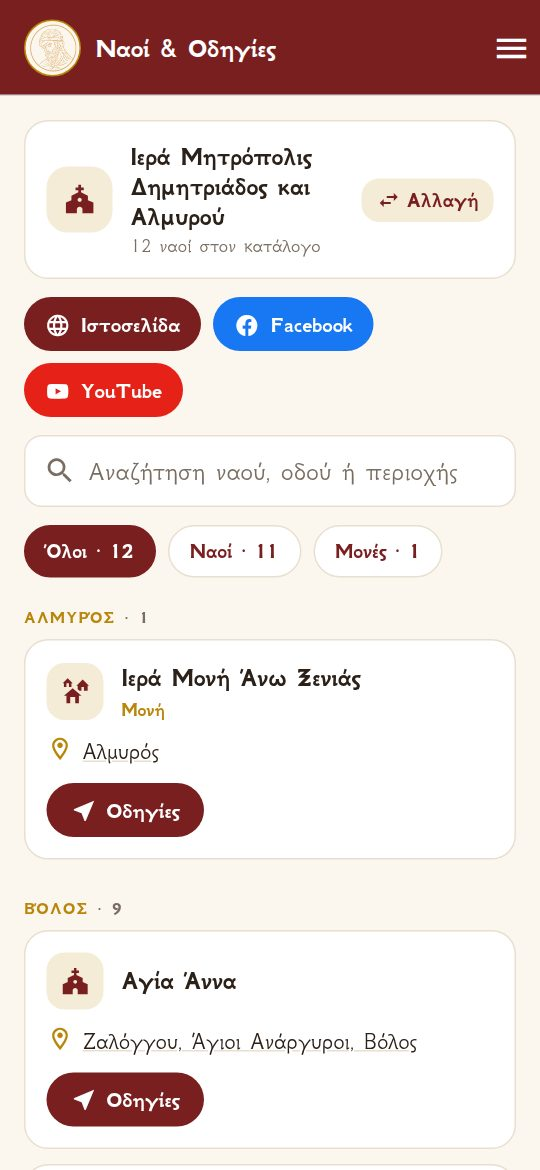
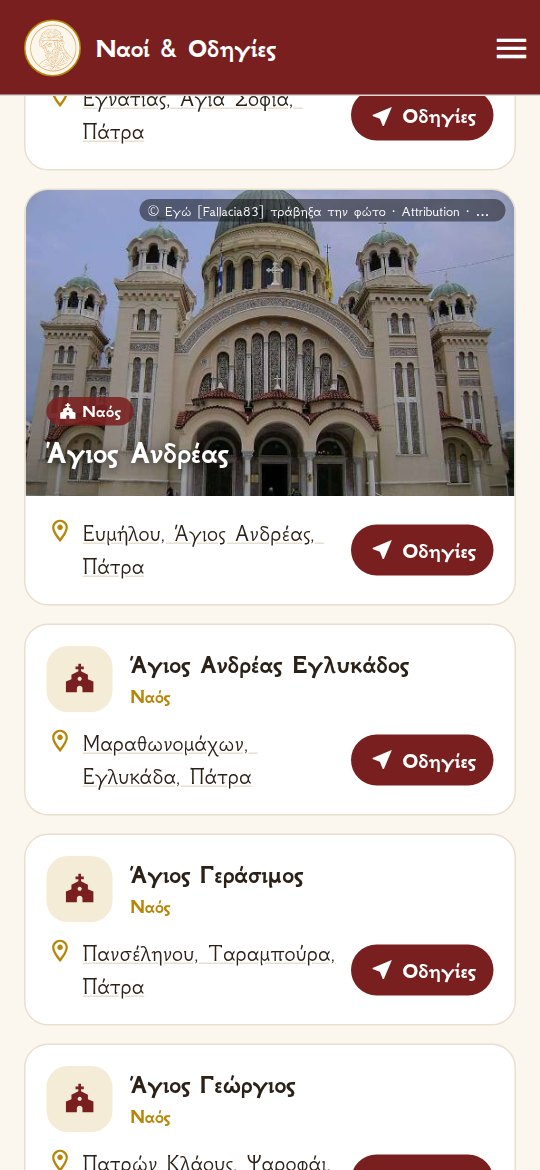
Σελίδα: χάρτης Μητροπόλεων, νέες οθόνες, αριθμοί, πώς ξεκινάς, ερωτήσεις, μενού κινητού, στρογγυλό εικονίδιο

diff --git a/index.html b/index.html
@@ -5,10 +5,12 @@
   <meta name="viewport" content="width=device-width, initial-scale=1" />
   <title>Οκτώηχος · Octoechos</title>
   <meta name="description" content="Οκτώηχος — Εορτολόγιο με βίους αγίων και νηστείες, Τυπική Διάταξη, Ισοκράτης, νέα και ναοί όλων των Μητροπόλεων της Ελλάδος." />
-  <link rel="icon" href="favicon.png" />
+  <link rel="icon" type="image/png" sizes="64x64" href="favicon.png" />
+  <link rel="apple-touch-icon" href="apple-touch-icon.png" />
+  <meta name="theme-color" content="#7a1f1f" />
   <meta property="og:title" content="Οκτώηχος · Octoechos" />
   <meta property="og:description" content="Εορτολόγιο, Τυπική Διάταξη, Ισοκράτης, νέα και ναοί των Μητροπόλεων σε μία εφαρμογή." />
-  <meta property="og:image" content="logo.png" />
+  <meta property="og:image" content="icon-512.png" />
   <link rel="preconnect" href="https://fonts.googleapis.com" />
   <link rel="preconnect" href="https://fonts.gstatic.com" crossorigin />
   <link href="https://fonts.googleapis.com/css2?family=GFS+Neohellenic:wght@400;700&display=swap" rel="stylesheet" />
@@ -51,7 +53,7 @@
 
     /* Hero */
     .hero { text-align: center; padding: 48px 0 28px; }
-    .hero img.logo { width: min(560px, 92%); height: auto; }
+    .hero img.saint { width: min(250px, 60%); height: auto; filter: drop-shadow(0 6px 14px rgba(184,134,11,.18)); }
     .hero h1 { font-size: clamp(40px, 7vw, 64px); color: var(--primary); margin: 8px 0 0; letter-spacing: .5px; }
     .hero p.tag { font-size: clamp(20px, 3vw, 26px); color: var(--accent); margin: 4px 0 18px; font-weight: 700; }
     .hero p.lead { max-width: 720px; margin: 0 auto 26px; color: var(--muted); }
@@ -93,6 +95,58 @@
     footer .wrap { display: flex; flex-wrap: wrap; gap: 14px; justify-content: space-between; align-items: center; }
     footer a { color: #fff; }
 
+    /* Αριθμοί */
+    .stats { display: grid; grid-template-columns: repeat(4, 1fr); gap: 12px; margin: 6px auto 0; max-width: 900px; }
+    .stat { background: var(--surface); border: 1px solid var(--border); border-radius: 18px; padding: 16px 10px; text-align: center; }
+    .stat b { display: block; font-size: 32px; color: var(--primary); line-height: 1.1; }
+    .stat span { font-size: 15px; color: var(--muted); }
+
+    /* Μια ματιά */
+    .gallery { display: flex; gap: 18px; overflow-x: auto; scroll-snap-type: x mandatory; padding: 6px 4px 18px; -webkit-overflow-scrolling: touch; }
+    .gallery figure { flex: 0 0 210px; margin: 0; scroll-snap-align: center; text-align: center; }
+    .gallery .phone { width: 210px; border-width: 7px; border-radius: 26px; }
+    .gallery figcaption { margin-top: 8px; font-size: 16px; color: var(--muted); }
+
+    /* Βήματα */
+    .steps { display: grid; grid-template-columns: repeat(3, 1fr); gap: 16px; counter-reset: st; }
+    .step { background: var(--surface); border: 1px solid var(--border); border-radius: 18px; padding: 22px 20px 20px; position: relative; }
+    .step::before { counter-increment: st; content: counter(st); position: absolute; top: -14px; left: 20px; width: 32px; height: 32px; border-radius: 50%; background: var(--primary); color: #fff; display: grid; place-items: center; font-weight: 700; font-size: 18px; }
+    .step h4 { margin: 6px 0 6px; color: var(--primary); font-size: 22px; }
+    .step p { margin: 0; color: var(--muted); font-size: 17px; }
+
+    /* Ερωτήσεις */
+    .faq { max-width: 820px; margin: 0 auto; }
+    .faq details { background: var(--surface); border: 1px solid var(--border); border-radius: 16px; padding: 14px 18px; margin-bottom: 10px; }
+    .faq summary { cursor: pointer; font-weight: 700; color: var(--primary); font-size: 19px; list-style: none; display: flex; justify-content: space-between; gap: 12px; }
+    .faq summary::-webkit-details-marker { display: none; }
+    .faq summary::after { content: '+'; color: var(--accent); font-size: 24px; line-height: 1; }
+    .faq details[open] summary::after { content: '–'; }
+    .faq details p { margin: 10px 0 2px; color: var(--muted); font-size: 17px; }
+
+    /* Μενού κινητού */
+    .menu-btn { display: none; background: none; border: 0; color: #fff; font-size: 28px; line-height: 1; padding: 4px 6px; margin-left: 10px; cursor: pointer; }
+    .mobile-nav { display: none; background: var(--primary); border-top: 1px solid rgba(255,255,255,.2); }
+    .mobile-nav a { display: block; color: #fff; text-decoration: none; padding: 12px 20px; border-bottom: 1px solid rgba(255,255,255,.12); font-size: 18px; }
+    body.menu-open .mobile-nav { display: block; }
+
+    /* Κινητά */
+    @media (max-width: 720px) {
+      body { font-size: 18px; }
+      .menu-btn { display: inline-block; }
+      header .wrap { height: 58px; }
+      .hero { padding: 30px 0 18px; }
+      .hero img.saint { width: min(210px, 56%); }
+      .stats { grid-template-columns: repeat(2, 1fr); }
+      .stat b { font-size: 28px; }
+      .feature { padding: 20px 18px; gap: 22px; border-radius: 18px; }
+      .feature h3 { font-size: 24px; }
+      .phone { width: 240px; }
+      h2 { font-size: 29px; }
+      .steps { grid-template-columns: 1fr; gap: 22px; }
+      .download { padding: 24px 16px; }
+      .btn { padding: 13px 20px; font-size: 18px; }
+    }
+
     [data-lang="en"] .el, [data-lang="el"] .en { display: none !important; }
   </style>
 </head>
@@ -103,18 +157,28 @@
       <div class="name"><span class="el">Οκτώηχος</span><span class="en">Octoechos</span></div>
       <nav>
         <a class="navlink" href="#features"><span class="el">Λειτουργίες</span><span class="en">Features</span></a>
+        <a class="navlink" href="#faq"><span class="el">Ερωτήσεις</span><span class="en">FAQ</span></a>
         <a class="navlink" href="#download"><span class="el">Λήψη</span><span class="en">Download</span></a>
         <a class="navlink" href="privacy.html"><span class="el">Όροι &amp; Απόρρητο</span><span class="en">Terms &amp; Privacy</span></a>
         <span class="lang" role="group" aria-label="Language">
           <button type="button" data-set="el">ΕΛ</button><button type="button" data-set="en">EN</button>
         </span>
+        <button class="menu-btn" type="button" aria-label="Μενού" aria-expanded="false">☰</button>
       </nav>
+    </div>
+    <div class="mobile-nav">
+      <a href="#features"><span class="el">Λειτουργίες</span><span class="en">Features</span></a>
+      <a href="#gallery"><span class="el">Μια ματιά</span><span class="en">A quick look</span></a>
+      <a href="#start"><span class="el">Πώς ξεκινάς</span><span class="en">Getting started</span></a>
+      <a href="#faq"><span class="el">Συχνές ερωτήσεις</span><span class="en">FAQ</span></a>
+      <a href="#download"><span class="el">Λήψη</span><span class="en">Download</span></a>
+      <a href="privacy.html"><span class="el">Όροι &amp; Απόρρητο</span><span class="en">Terms &amp; Privacy</span></a>
     </div>
   </header>
 
   <main class="wrap">
     <div class="hero">
-      <img class="logo" src="logo.png" alt="Άγιος Ιωάννης ο Δαμασκηνός" />
+      <img class="saint" src="saint.png" alt="Άγιος Ιωάννης ο Δαμασκηνός" width="250" height="250" />
       <h1>Οκτώηχος</h1>
       <p class="tag"><span class="el">Ο σύντροφος του ψάλτη</span><span class="en">The chanter’s companion</span></p>
       <p class="lead">
@@ -125,6 +189,13 @@
         <a class="btn" href="#download">⬇ <span class="el">Λήψη για Android</span><span class="en">Download for Android</span></a>
         <a class="btn outline" href="#features"><span class="el">Δες τι περιέχει</span><span class="en">See what’s inside</span></a>
       </div>
+    </div>
+
+    <div class="stats">
+      <div class="stat"><b>19.000+</b><span class="el">ναοί, μονές &amp; παρεκκλήσια</span><span class="en">churches, monasteries &amp; chapels</span></div>
+      <div class="stat"><b>95</b><span class="el">Μητροπόλεις &amp; Αρχιεπισκοπές, και το Άγιον Όρος</span><span class="en">Metropolises &amp; Archdioceses, plus Mount Athos</span></div>
+      <div class="stat"><b>1.100+</b><span class="el">μνήμες αγίων με βίους</span><span class="en">saints’ commemorations</span></div>
+      <div class="stat"><b>8</b><span class="el">ήχοι στον ισοκράτη</span><span class="en">modes in the ison</span></div>
     </div>
 
     <div class="ornament">✝</div>
@@ -217,6 +288,28 @@
 
       <div class="feature">
         <div>
+          <div class="kicker"><span class="el">Χάρτης Μητροπόλεων</span><span class="en">Map of the Metropolises</span></div>
+          <h3><span class="el">Όλη η Ελλάδα, Μητρόπολη προς Μητρόπολη</span><span class="en">All of Greece, Metropolis by Metropolis</span></h3>
+          <ul class="el">
+            <li>Κάθε Μητρόπολη με το δικό της, ήπιο εκκλησιαστικό χρώμα — οι γειτονικές δεν έχουν ποτέ το ίδιο.</li>
+            <li>Πάτησε πάνω στον χάρτη όσες Μητροπόλεις θέλεις· με δεύτερο πάτημα αφαιρούνται.</li>
+            <li>Αναζήτηση πάνω από τον χάρτη: γράψε «Πατρ» ή «Κρήτη» και ο χάρτης πηγαίνει εκεί.</li>
+            <li>Ζουμ με τα κουμπιά − / + ή με τη μπάρα· με το ζουμ εμφανίζονται τα ονόματα (Ι. Μ. Πατρών, Ι. Μ. Αιτωλοακαρνανίας…).</li>
+            <li>Ο ίδιος χάρτης στα Νέα και στους Ναούς, με το κουμπί «Επιλεγμένες» για να συνεχίσεις.</li>
+          </ul>
+          <ul class="en">
+            <li>Each Metropolis in its own soft, ecclesiastical colour — neighbours never share one.</li>
+            <li>Tap as many Metropolises as you like on the map; tap again to remove.</li>
+            <li>Search above the map: type “Patr” or “Crete” and the map goes there.</li>
+            <li>Zoom with the − / + buttons or the slider; names appear as you zoom in.</li>
+            <li>The same map in the News and the Churches, with a “Selected” button to carry on.</li>
+          </ul>
+        </div>
+        <div class="phone"><img src="screen-map.jpg" alt="Χάρτης Μητροπόλεων" loading="lazy" /></div>
+      </div>
+
+      <div class="feature rev">
+        <div>
           <div class="kicker"><span class="el">Ναοί & Οδηγίες</span><span class="en">Churches & Directions</span></div>
           <h3><span class="el">Βρες τον ναό και πήγαινε με GPS</span><span class="en">Find the church and get there by GPS</span></h3>
           <ul class="el">
@@ -249,7 +342,46 @@
         <div class="card"><h4><span class="el">Γρήγορη & ομαλή</span><span class="en">Fast & smooth</span></h4><p><span class="el">Έως 120 Hz σε κινητά που το υποστηρίζουν· οι χάρτες σχεδιάζονται απευθείας στην κάρτα γραφικών.</span><span class="en">Up to 120 Hz on phones that support it; the maps are drawn straight on the GPU.</span></p></div>
         <div class="card"><h4><span class="el">Αυτόματες ενημερώσεις</span><span class="en">Automatic updates</span></h4><p><span class="el">Νέο περιεχόμενο χωρίς να ξανακατεβάσεις την εφαρμογή.</span><span class="en">New content without reinstalling the app.</span></p></div>
         <div class="card"><h4><span class="el">Όπως τη θέλεις</span><span class="en">Your way</span></h4><p><span class="el">Μέγεθος γραμμάτων και διακόπτες για να κρύψεις όποια ενότητα δεν χρειάζεσαι.</span><span class="en">Text size, and switches to hide any section you don’t need.</span></p></div>
+        <div class="card"><h4><span class="el">Και χωρίς internet</span><span class="en">Works offline too</span></h4><p><span class="el">Ό,τι έχεις ανοίξει μία φορά (ναοί, νέα, χάρτης) κρατιέται στο κινητό και ανοίγει αμέσως.</span><span class="en">Whatever you have opened once (churches, news, map) stays on your phone and opens instantly.</span></p></div>
+        <div class="card"><h4><span class="el">Αναφορά λάθους</span><span class="en">Report a problem</span></h4><p><span class="el">Λείπει ένας ναός ή έχει λάθος στοιχεία; Στείλε αναφορά από την ίδια την εφαρμογή.</span><span class="en">A church missing or wrong? Send a report from within the app.</span></p></div>
         <div class="card"><h4><span class="el">Σεβασμός στο απόρρητο</span><span class="en">Privacy first</span></h4><p><span class="el">Χωρίς διαφημίσεις, χωρίς παρακολούθηση. Διαγραφή λογαριασμού από την ίδια την εφαρμογή.</span><span class="en">No ads, no tracking. Delete your account from within the app.</span></p></div>
+      </div>
+    </section>
+
+    <section id="gallery">
+      <h2><span class="el">Μια ματιά στην εφαρμογή</span><span class="en">A quick look at the app</span></h2>
+      <p class="sub"><span class="el">Σύρε δεξιά–αριστερά για να δεις τις οθόνες.</span><span class="en">Swipe left and right to see the screens.</span></p>
+      <div class="gallery">
+        <figure><div class="phone"><img src="screen-home.jpg" alt="" loading="lazy" /></div><figcaption><span class="el">Αρχική</span><span class="en">Home</span></figcaption></figure>
+        <figure><div class="phone"><img src="screen-saints.jpg" alt="" loading="lazy" /></div><figcaption><span class="el">Εορτολόγιο</span><span class="en">Calendar</span></figcaption></figure>
+        <figure><div class="phone"><img src="screen-typ.jpg" alt="" loading="lazy" /></div><figcaption><span class="el">Τυπική Διάταξη</span><span class="en">Typikon</span></figcaption></figure>
+        <figure><div class="phone"><img src="screen-iso.jpg" alt="" loading="lazy" /></div><figcaption><span class="el">Ισοκράτης</span><span class="en">Ison</span></figcaption></figure>
+        <figure><div class="phone"><img src="screen-news.jpg" alt="" loading="lazy" /></div><figcaption><span class="el">Νέα Μητροπόλεων</span><span class="en">Metropolis News</span></figcaption></figure>
+        <figure><div class="phone"><img src="screen-map.jpg" alt="" loading="lazy" /></div><figcaption><span class="el">Χάρτης Μητροπόλεων</span><span class="en">Map</span></figcaption></figure>
+        <figure><div class="phone"><img src="screen-pick.jpg" alt="" loading="lazy" /></div><figcaption><span class="el">Επιλογή Μητροπόλεων</span><span class="en">Choosing Metropolises</span></figcaption></figure>
+        <figure><div class="phone"><img src="screen-naoi.jpg" alt="" loading="lazy" /></div><figcaption><span class="el">Ναοί & Οδηγίες</span><span class="en">Churches & Directions</span></figcaption></figure>
+      </div>
+    </section>
+
+    <section id="start">
+      <h2><span class="el">Πώς ξεκινάς</span><span class="en">Getting started</span></h2>
+      <p class="sub"><span class="el">Τρία απλά βήματα.</span><span class="en">Three simple steps.</span></p>
+      <div class="steps">
+        <div class="step"><h4><span class="el">Κατέβασε την εφαρμογή</span><span class="en">Download the app</span></h4><p><span class="el">Από το κουμπί «Λήψη» παρακάτω, για Android.</span><span class="en">From the “Download” button below, for Android.</span></p></div>
+        <div class="step"><h4><span class="el">Αποδέξου τους όρους &amp; συνδέσου</span><span class="en">Accept the terms &amp; sign in</span></h4><p><span class="el">Με το email σου (η πρόσβαση γίνεται προς το παρόν με πρόσκληση).</span><span class="en">With your email (access is currently by invitation).</span></p></div>
+        <div class="step"><h4><span class="el">Διάλεξε τις Μητροπόλεις σου</span><span class="en">Pick your Metropolises</span></h4><p><span class="el">Από τον χάρτη ή τη λίστα — για τα νέα και για τους ναούς.</span><span class="en">On the map or from the list — for the news and the churches.</span></p></div>
+      </div>
+    </section>
+
+    <section id="faq">
+      <h2><span class="el">Συχνές ερωτήσεις</span><span class="en">Frequently asked questions</span></h2>
+      <div class="faq">
+        <details><summary><span class="el">Χρειάζεται σύνδεση στο internet;</span><span class="en">Do I need an internet connection?</span></summary><p><span class="el">Μόνο την πρώτη φορά που ανοίγεις νέα, ναούς ή τον χάρτη. Μετά κρατιούνται στο κινητό και ανοίγουν αμέσως, και χωρίς σύνδεση. Το ημερολόγιο με τις εορτές και τις νηστείες, η τυπική διάταξη και ο ισοκράτης δουλεύουν και χωρίς σύνδεση.</span><span class="en">Only the first time you open news, churches or the map. After that they stay on your phone and open instantly, even offline. The calendar with feasts and fasts, the Typikon and the ison work offline too.</span></p></details>
+        <details><summary><span class="el">Από πού είναι τα στοιχεία των ναών;</span><span class="en">Where does the church data come from?</span></summary><p><span class="el">Οι θέσεις και οι διευθύνσεις προέρχονται από το OpenStreetMap (© OpenStreetMap contributors). Αν κάποιος ναός λείπει ή έχει λάθος, μπορείς να στείλεις αναφορά από την εφαρμογή.</span><span class="en">Locations and addresses come from OpenStreetMap (© OpenStreetMap contributors). If a church is missing or wrong, you can send a report from the app.</span></p></details>
+        <details><summary><span class="el">Ποιος έχει τραβήξει τις φωτογραφίες των ναών;</span><span class="en">Who took the church photos?</span></summary><p><span class="el">Είναι από το Wikimedia Commons, με άδειες ελεύθερης χρήσης. Πάνω σε κάθε φωτογραφία φαίνεται ο δημιουργός και η άδεια· με ένα πάτημα ανοίγει η σελίδα της.</span><span class="en">They come from Wikimedia Commons under free licences. Each photo shows its author and licence; one tap opens its page.</span></p></details>
+        <details><summary><span class="el">Πώς επιλέγω περισσότερες από μία Μητροπόλεις;</span><span class="en">How do I choose more than one Metropolis?</span></summary><p><span class="el">Πάτησε πάνω στον χάρτη όσες θέλεις ή τσέκαρέ τες στη λίστα και πάτησε «Επιλεγμένες». Η επιλογή σου θυμάται για την επόμενη φορά· την αλλάζεις με το κουμπί «Αλλαγή».</span><span class="en">Tap as many as you like on the map or tick them in the list, then tap “Selected”. Your choice is remembered for next time; change it with the “Change” button.</span></p></details>
+        <details><summary><span class="el">Τι δεδομένα μου κρατάτε;</span><span class="en">What data do you keep about me?</span></summary><p><span class="el">Μόνο τα απολύτως απαραίτητα για τον λογαριασμό σου. Χωρίς διαφημίσεις και χωρίς παρακολούθηση· μπορείς να διαγράψεις τον λογαριασμό σου από την ίδια την εφαρμογή. Δες την <a href="privacy.html">Πολιτική Απορρήτου</a>.</span><span class="en">Only what is strictly necessary for your account. No ads and no tracking; you can delete your account from within the app. See the <a href="privacy.html">Privacy Policy</a>.</span></p></details>
+        <details><summary><span class="el">Υπάρχει για iPhone;</span><span class="en">Is there an iPhone version?</span></summary><p><span class="el">Προς το παρόν η εφαρμογή είναι για Android· η έκδοση για iPhone θα ακολουθήσει.</span><span class="en">For now the app is for Android; the iPhone version will follow.</span></p></details>
       </div>
     </section>
 
@@ -291,6 +423,11 @@
       document.querySelectorAll('.lang button').forEach(function (b) { b.addEventListener('click', function () { apply(b.getAttribute('data-set')); }); });
       apply(lang);
       document.getElementById('year').textContent = new Date().getFullYear();
+
+      // Μενού στα κινητά
+      var mb = document.querySelector('.menu-btn');
+      mb.addEventListener('click', function () { var open = document.body.classList.toggle('menu-open'); mb.setAttribute('aria-expanded', open ? 'true' : 'false'); });
+      document.querySelectorAll('.mobile-nav a').forEach(function (a) { a.addEventListener('click', function () { document.body.classList.remove('menu-open'); mb.setAttribute('aria-expanded', 'false'); }); });
 
       // Σύνδεσμος λήψης: η τελευταία έκδοση από τα GitHub Releases του ίδιου αποθετηρίου.
       var link = document.getElementById('apk-link');
